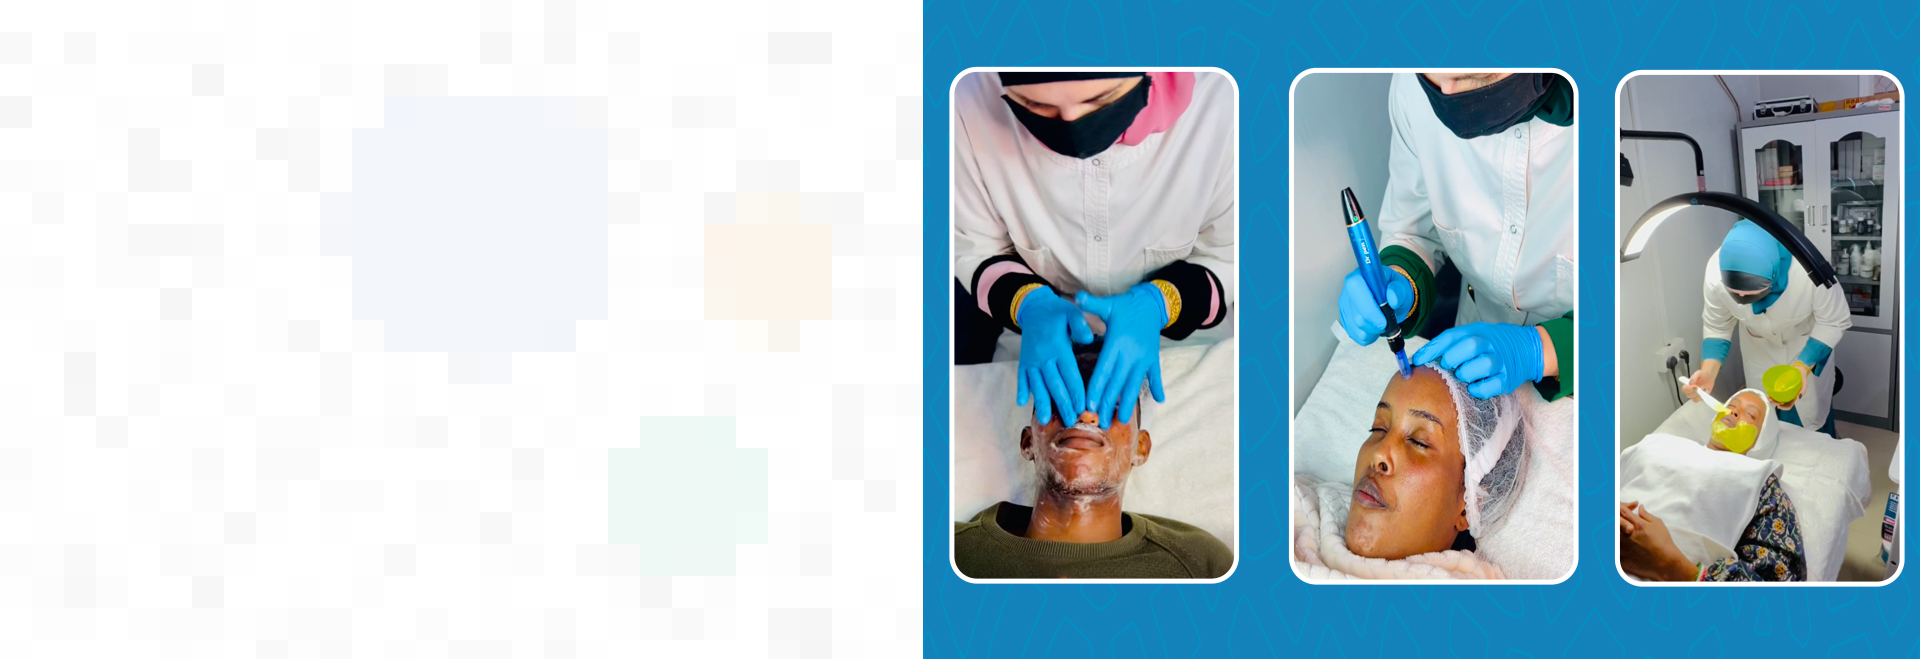
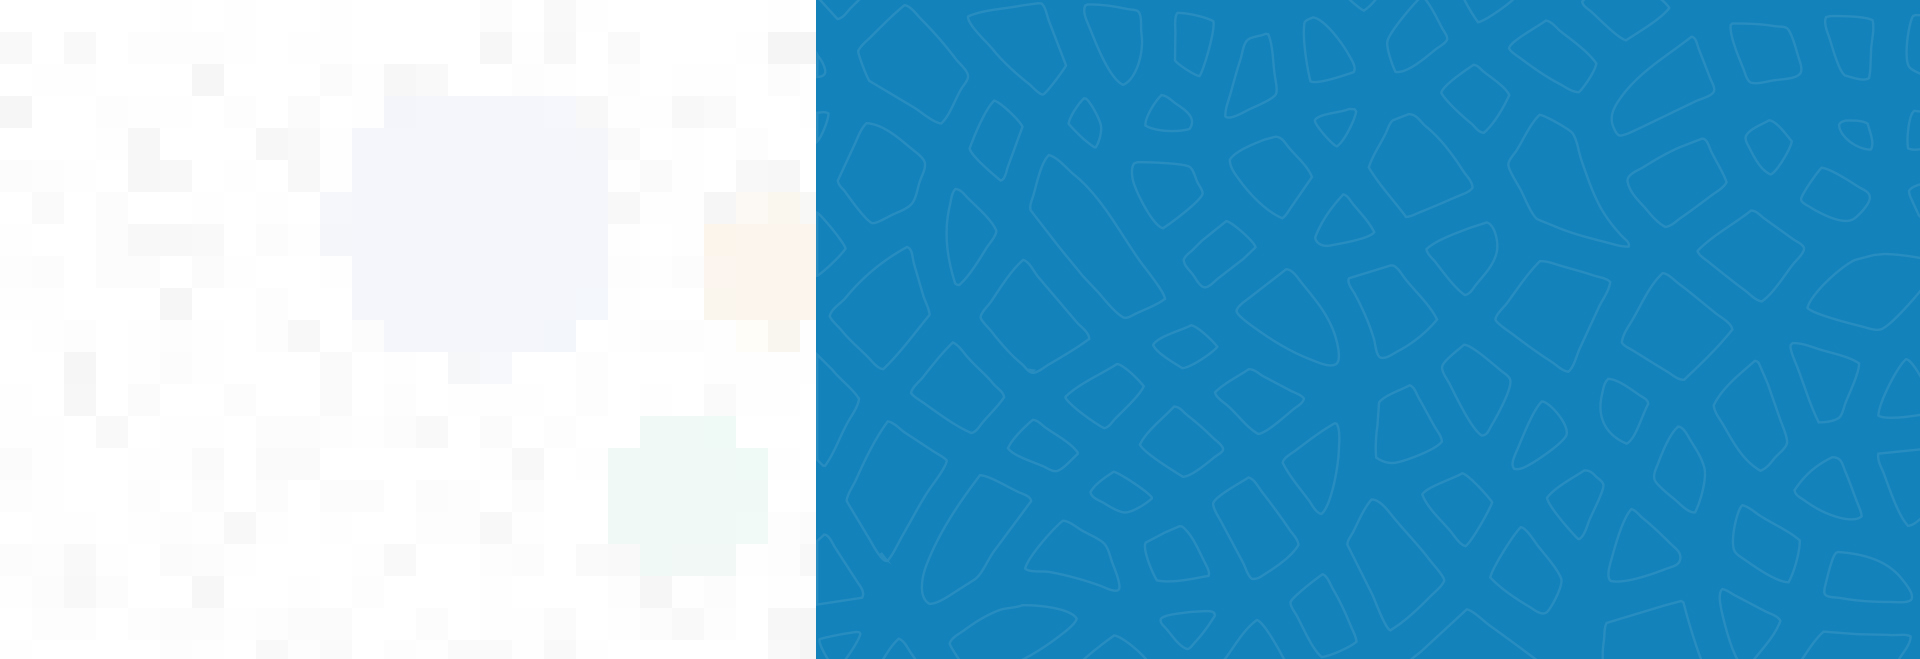
updates

diff --git a/app/components/hero2.tsx b/app/components/hero2.tsx
@@ -1,0 +1,76 @@
+'use client'
+import Link from "next/link";
+import Slider from "react-slick"
+import HeroImages from "./heroImages";
+
+const brand_1 = "/images/herimg1.png"
+const brand_2 = "/images/herimg1.png"
+const brand_3 = "/images/herimg1.png"
+const brand_data: string[] = [brand_1, brand_2, brand_3, brand_1, brand_3]
+const Hero2 = () => {
+    const settings = {
+        slidesToShow: 2,
+        slidesToScroll: 1,
+        arrows: false,
+        autoplay: true,
+        fade: false,
+        autoplaySpeed: 2000,
+        responsive: [
+            {
+                breakpoint: 1200,
+                settings: {
+                    slidesToShow: 4,
+                }
+            },
+            {
+                breakpoint: 991,
+                settings: {
+                    slidesToShow: 3,
+                }
+            },
+            {
+                breakpoint: 767,
+                settings: {
+                    slidesToShow: 2,
+                }
+            },
+            {
+                breakpoint: 375,
+                settings: {
+                    slidesToShow: 1,
+                }
+            }
+        ],
+    }
+    return (<div>
+
+        <div className="banner-slider" >
+            <div className="banner1">
+
+                <div className="custom-container px-4 " style={{ padding: "5rem 0" }}>
+                    <div className="row" >
+                        <div className="col-sm-12  col-lg-5">
+                            <div className="main-title main-title-style2 ">
+                                <span>We are here for you</span>
+                                <h1>
+                                    Enhance Your Beauty and Self-Confidence.
+                                </h1>
+                                <p style={{ paddingRight: "2rem" }}>
+                                    Experience the latest in cosmetology and hair restoration. Our expert team is dedicated to helping you look and feel your best with personalized treatments designed to enhance your natural beauty.
+                                </p>
+                                <Link href="/services" className="btn btn-dark btn-blue ">Discover Our Services</Link>
+                            </div>
+                        </div>
+                        <div className="col-md-10 col-lg-7 d-none d-md-block" style={{ paddingTop: "1.5rem " }}>   <HeroImages /></div>
+                    </div>
+
+                </div>
+
+
+            </div>
+
+        </div>
+    </div>);
+}
+
+export default Hero2;

diff --git a/app/components/shortAbout.tsx b/app/components/shortAbout.tsx
@@ -1,3 +1,4 @@
+import Link from "next/link";
 import { FaChevronRight } from "react-icons/fa";
 const ShortAbout = () => {
     const setting = {
@@ -25,6 +26,7 @@ const ShortAbout = () => {
                                 height={setting.height}
                                 autoPlay={true} muted={true} playsInline={true} loop={true}
                                 style={{ borderRadius: "12px" }}
+                                className="img-fluid w-100"
                             >
                                 <source src={setting.src} type="video/mp4" />
                                 Your browser does not support the video tag.
@@ -47,14 +49,15 @@ const ShortAbout = () => {
                             <p>
                                 Our expert team uses the latest techniques and technologies to deliver outstanding results. We ensure comfort, precision, and continuous support, reflecting our commitment to your beauty and well-being.
                             </p>
-                            <hr />
-                            <div className="newsletter-subscribe">
+                            {/* <hr /> */}
+                            <Link href="/appoitment" className="btn btn-primary" style={{ color: "white", textDecoration: "none" }} >MAKE APPOINTMENT</Link>
+                            {/* <div className="newsletter-subscribe">
                                 <h4>Subscribe to our Newsletter</h4>
                                 <div className="newsletter-subscribe_form">
                                     <input type="text" className="form-control" placeholder="Enter Your Email" />
                                     <div className="a"><i className=""><FaChevronRight /></i></div>
                                 </div>
-                            </div>
+                            </div> */}
                         </div>
                     </div>
                 </div>

diff --git a/app/components/booking2.tsx b/app/components/booking2.tsx
@@ -70,7 +70,7 @@ const Booking2 = () => {
 
                     <div className="col-md-4">
                         <div className="service-thumbnail services-top-icon d-flex flex-fill">
-                            <img src="images/icon-6.png" className="img-fluid" alt="#" />
+                            <img src="images/injection.png" className="img-fluid" alt="#" />
                             <div className="service-thumbnail_text align-items-center">
                                 <h4><span style={{ color: "#1382BB" }}>Painless</span> Treatments</h4>
                                 <p>Hair restoration, cosmetology</p>
@@ -80,7 +80,7 @@ const Booking2 = () => {
 
                     <div className="col-md-4">
                         <div className="service-thumbnail services-top-icon d-flex flex-fill">
-                            <img src="images/icon7.png" className="img-fluid" alt="#" />
+                            <img src="images/dentist-chair.png" className="img-fluid" alt="#" />
                             <div className="service-thumbnail_text">
                                 <h4><span style={{ color: "#1382BB" }}>Top</span> Clinic Equipment</h4>
                                 <p>Hair restoration, cosmetology</p>

diff --git a/app/globals.css b/app/globals.css
@@ -5308,7 +5308,7 @@ URL: https://themeforest.net/user/surjithctly/
 .navbar-light .navbar-toggler {
   border: none;
   position: absolute;
-  right: 0;
+  right: 3.5rem;
   top: 0;
   margin: -73px 0 0;
 }
@@ -5514,6 +5514,7 @@ textarea {
 body {
   color: #2c2e31;
   font-family: "Roboto", sans-serif;
+
 }
 
 h1 {
@@ -5682,7 +5683,7 @@ a:focus {
     left: 14px;
     width: 0;
     height: 2px;
-    background-color: #5bc198;
+    background-color: var(--primary-color);
     -webkit-animation: animWidth 1s ease 0s 1 normal forwards;
     animation: animWidth 1s ease 0s 1 normal forwards;
   }
@@ -5855,12 +5856,13 @@ a:focus {
 }
 
 .banner-slider .slick-dots li.slick-active button:before {
-  color: #5bc198;
+  color: var(--primary-color);
 }
 
 .banner1 {
   background: url(/images/hero2.jpg) center no-repeat;
   background-size: cover;
+  /* background-color: red; */
 }
 
 .banner1:focus {
@@ -10226,4 +10228,16 @@ SERVICE DETAIL
     grid-template-columns: repeat(1, auto);
     ;
   }
+}
+
+.hero2 {
+  display: grid;
+  grid-template-columns: repeat(2, auto);
+}
+
+
+
+.custom-container {
+  max-width: 1400px;
+  margin: 0 auto;
 }

diff --git a/app/components/heroImages.tsx b/app/components/heroImages.tsx
@@ -1,0 +1,40 @@
+
+"use client"
+import Link from "next/link"
+import Slider from "react-slick"
+const brand_1 = "/images/herimg1.webp"
+const brand_2 = "/images/herimg2.webp"
+const brand_3 = "/images/herimg3.webp"
+const brand_4 = "/images/herimg6.webp"
+const brand_5 = "/images/herimg5.webp"
+const brand_6 = "/images/herimg4.webp"
+
+
+const brand_data: string[] = [brand_1, brand_2, brand_3, brand_4, brand_5, brand_6]
+const HeroImages = () => {
+    const settings = {
+        dots: true,
+        infinite: true,
+        arrows: false,
+        autoplay: true,
+        autoplaySpeed: 2000,
+        slidesToShow: 3,
+        slidesToScroll: 1,
+    };
+    return (<>
+
+
+
+        <Slider {...settings} >
+            {brand_data.map((brand, index) => (
+                <div key={index}  >
+                    <img src={brand} style={{ width: "100%" }} className="heroImages" alt="Client Logo" />
+                </div>
+            ))}
+
+        </Slider>
+
+    </>);
+}
+
+export default HeroImages;

diff --git a/app/page.tsx b/app/page.tsx
@@ -18,6 +18,7 @@ import Counter from "./components/counter";
 import Footer from "./components/footer";
 import { servicesList } from "./data/services";
 import ReactWhatsapp from "react-whatsapp";
+import Hero2 from "./components/hero2";
 
 
 export default async function Home() {
@@ -26,7 +27,7 @@ export default async function Home() {
     <>
 
 
-      <Hero />
+      <Hero2 />
       <section className="about-section">
         <div className="container container-custom">
           <div className="row">
@@ -41,9 +42,8 @@ export default async function Home() {
       <ShortAbout />
       <Satisfaction />
       <Booking2 />
-      {/* <Testimonail /> */}
+
       <Conculting />
-      {/* <Blogs /> */}
 
 
 

diff --git a/app/components/hero.tsx b/app/components/hero.tsx
@@ -4,8 +4,8 @@ const Hero = () => {
     return (<>   <div className="banner-slider" >
         <div className="banner1">
             <div className="container " style={{ padding: "3rem 0" }}>
-                <div className="row" style={{ display: "flex" }}>
-                    <div className="col-md-9 col-lg-5" >
+                <div className="rodw" style={{ display: "flex" }}>
+                    <div className="col-dmd-9 codl-lg-5" >
 
                         <div className="main-title main-title-style2 ">
                             <span>We are here for you</span>

diff --git a/app/layout.tsx b/app/layout.tsx
@@ -4,6 +4,8 @@ import "./globals.css";
 import Header from "./components/header";
 import Counter from "./components/counter";
 import Footer from "./components/footer";
+import "slick-carousel/slick/slick.css";
+import "slick-carousel/slick/slick-theme.css";
 
 const inter = Inter({ subsets: ["latin"] });
 
